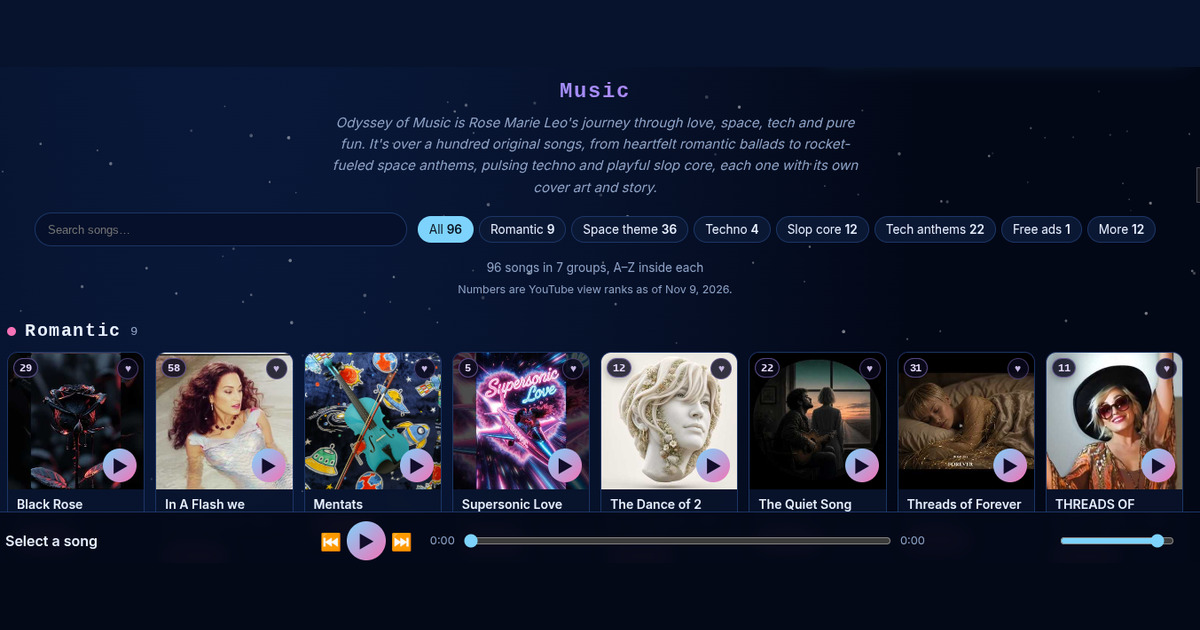
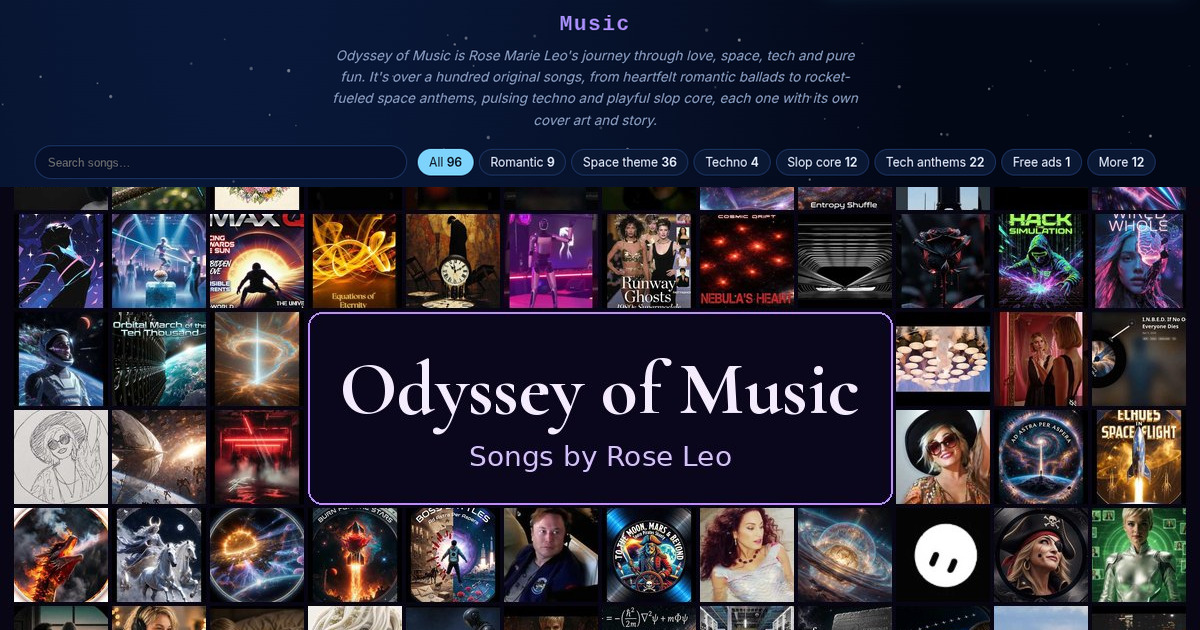
Use the heading, blurb, and chips composite as the share preview
Replace assets/og-music.jpg with Rose's chosen collage composite
and bump the og/twitter image cache to v=20261118i.

diff --git a/index.html b/index.html
@@ -1,5 +1,5 @@
 <!doctype html><html lang="en"><head><meta charset="utf-8"><meta name="viewport" content="width=device-width,initial-scale=1">
-<title>Odyssey of Music</title><meta name="description" content="Odyssey of Music: songs by Rose Leo"><link rel="canonical" href="https://odysseyofmusic.com/"><meta property="og:title" content="Odyssey of Music · Rose Leo"><meta property="og:description" content="Odyssey of Music by Rose Leo: AI-assisted songs of space, memory, and motion. Listen to the full catalog."><meta property="og:type" content="website"><meta property="og:url" content="https://odysseyofmusic.com/"><meta property="og:site_name" content="Odyssey of Music"><meta property="og:image" content="https://odysseyofmusic.com/assets/og-music.jpg?v=20261118h"><meta property="og:image:secure_url" content="https://odysseyofmusic.com/assets/og-music.jpg?v=20261118h"><meta property="og:image:type" content="image/jpeg"><meta property="og:image:width" content="1200"><meta property="og:image:height" content="630"><meta property="og:image:alt" content="Music section of Odyssey of Music by Rose Marie Leo, with album covers and the audio player"><meta name="twitter:card" content="summary_large_image"><meta name="twitter:title" content="Odyssey of Music · Rose Leo"><meta name="twitter:description" content="Odyssey of Music by Rose Leo: AI-assisted songs of space, memory, and motion. Listen to the full catalog."><meta name="twitter:image" content="https://odysseyofmusic.com/assets/og-music.jpg?v=20261118h"><meta name="twitter:image:alt" content="Music section of Odyssey of Music by Rose Marie Leo, with album covers and the audio player">
+<title>Odyssey of Music</title><meta name="description" content="Odyssey of Music: songs by Rose Leo"><link rel="canonical" href="https://odysseyofmusic.com/"><meta property="og:title" content="Odyssey of Music · Rose Leo"><meta property="og:description" content="Odyssey of Music by Rose Leo: AI-assisted songs of space, memory, and motion. Listen to the full catalog."><meta property="og:type" content="website"><meta property="og:url" content="https://odysseyofmusic.com/"><meta property="og:site_name" content="Odyssey of Music"><meta property="og:image" content="https://odysseyofmusic.com/assets/og-music.jpg?v=20261118i"><meta property="og:image:secure_url" content="https://odysseyofmusic.com/assets/og-music.jpg?v=20261118i"><meta property="og:image:type" content="image/jpeg"><meta property="og:image:width" content="1200"><meta property="og:image:height" content="630"><meta property="og:image:alt" content="Odyssey of Music by Rose Marie Leo: the Music heading, album description, and a collage of cover art"><meta name="twitter:card" content="summary_large_image"><meta name="twitter:title" content="Odyssey of Music · Rose Leo"><meta name="twitter:description" content="Odyssey of Music by Rose Leo: AI-assisted songs of space, memory, and motion. Listen to the full catalog."><meta name="twitter:image" content="https://odysseyofmusic.com/assets/og-music.jpg?v=20261118i"><meta name="twitter:image:alt" content="Odyssey of Music by Rose Marie Leo: the Music heading, album description, and a collage of cover art">
 <link rel="preconnect" href="https://fonts.googleapis.com"><link href="https://fonts.googleapis.com/css2?family=Cormorant+Garamond:wght@500;700&family=Inter:wght@400;600&display=swap" rel="stylesheet">
 <link rel="stylesheet" href="style.css?v=20261118g"></head><body>
 <canvas id="stars" aria-hidden="true"></canvas>
